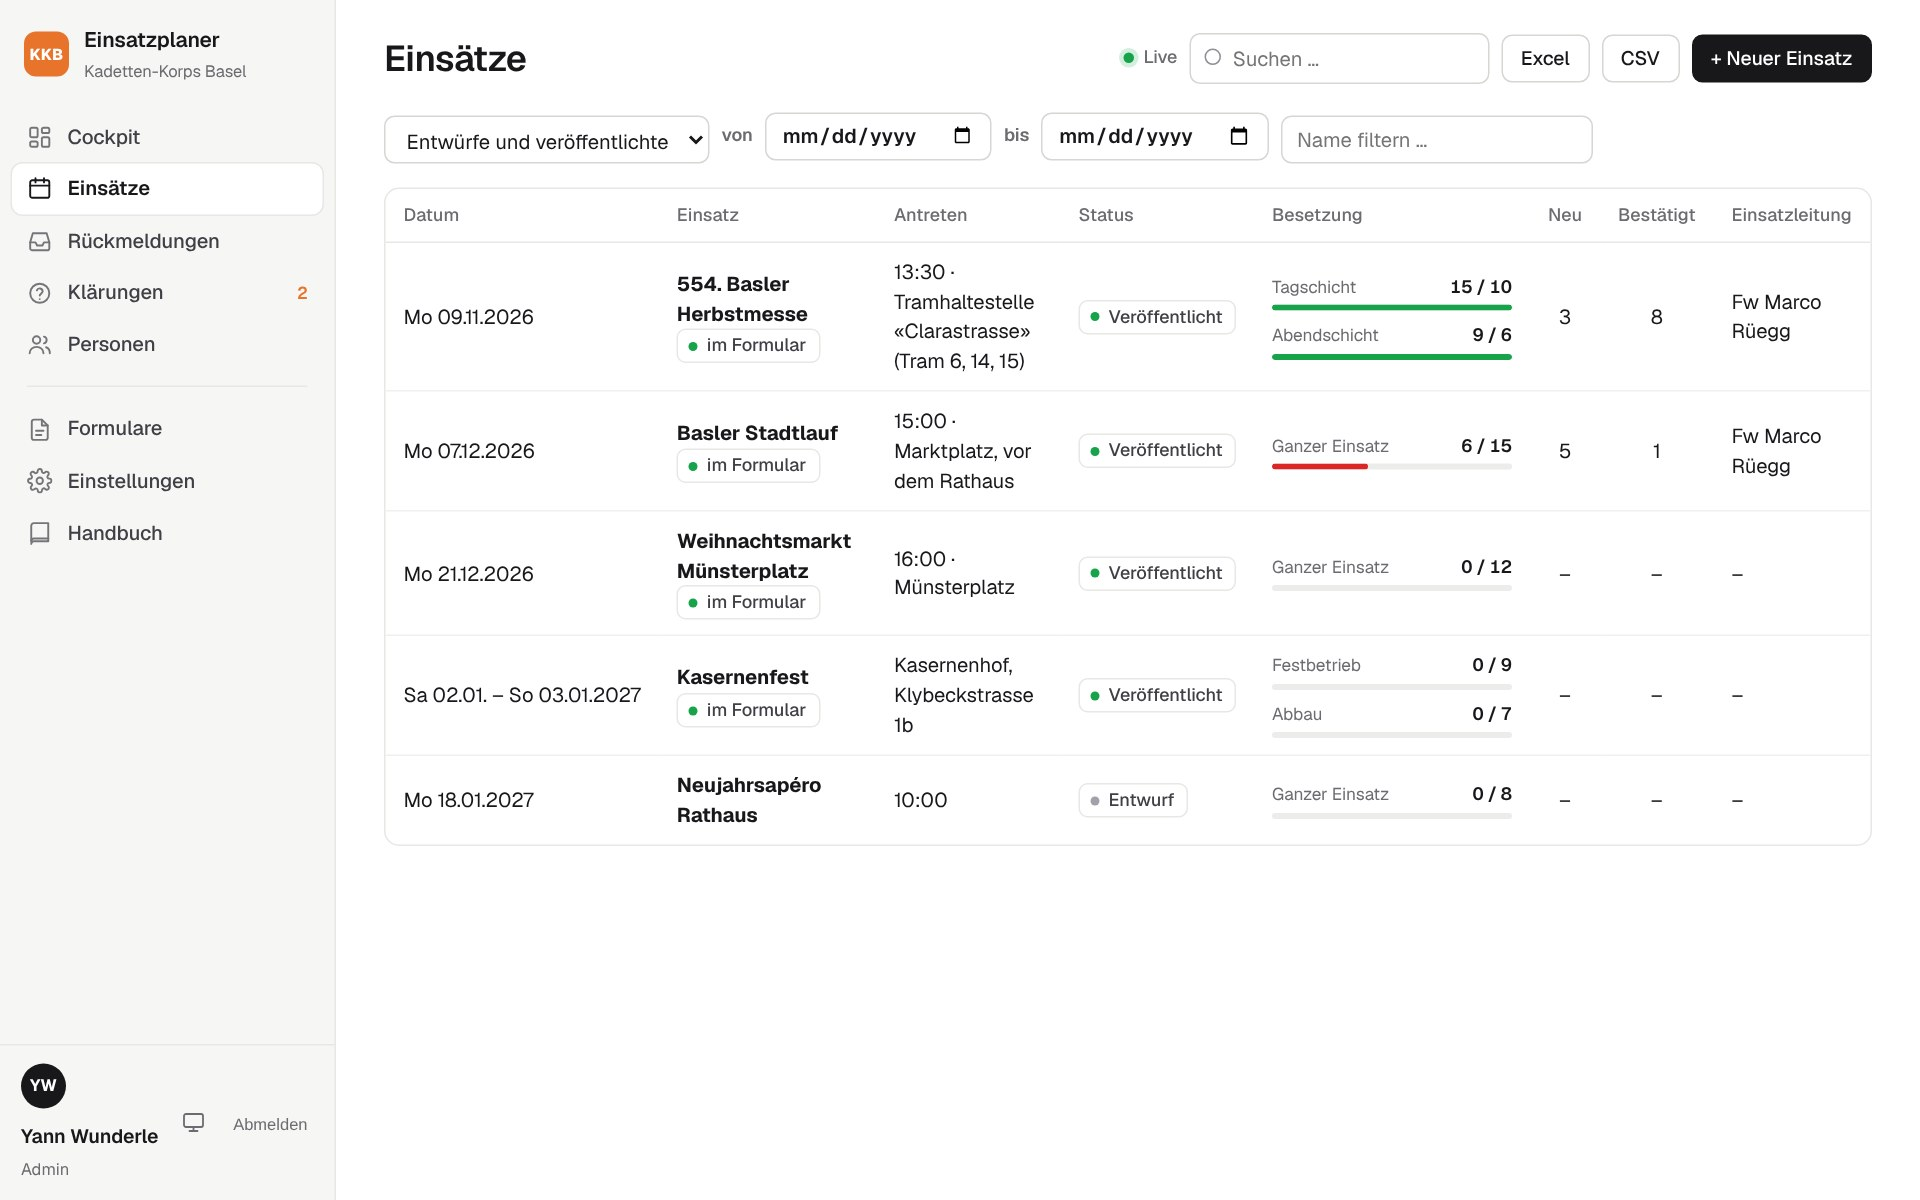
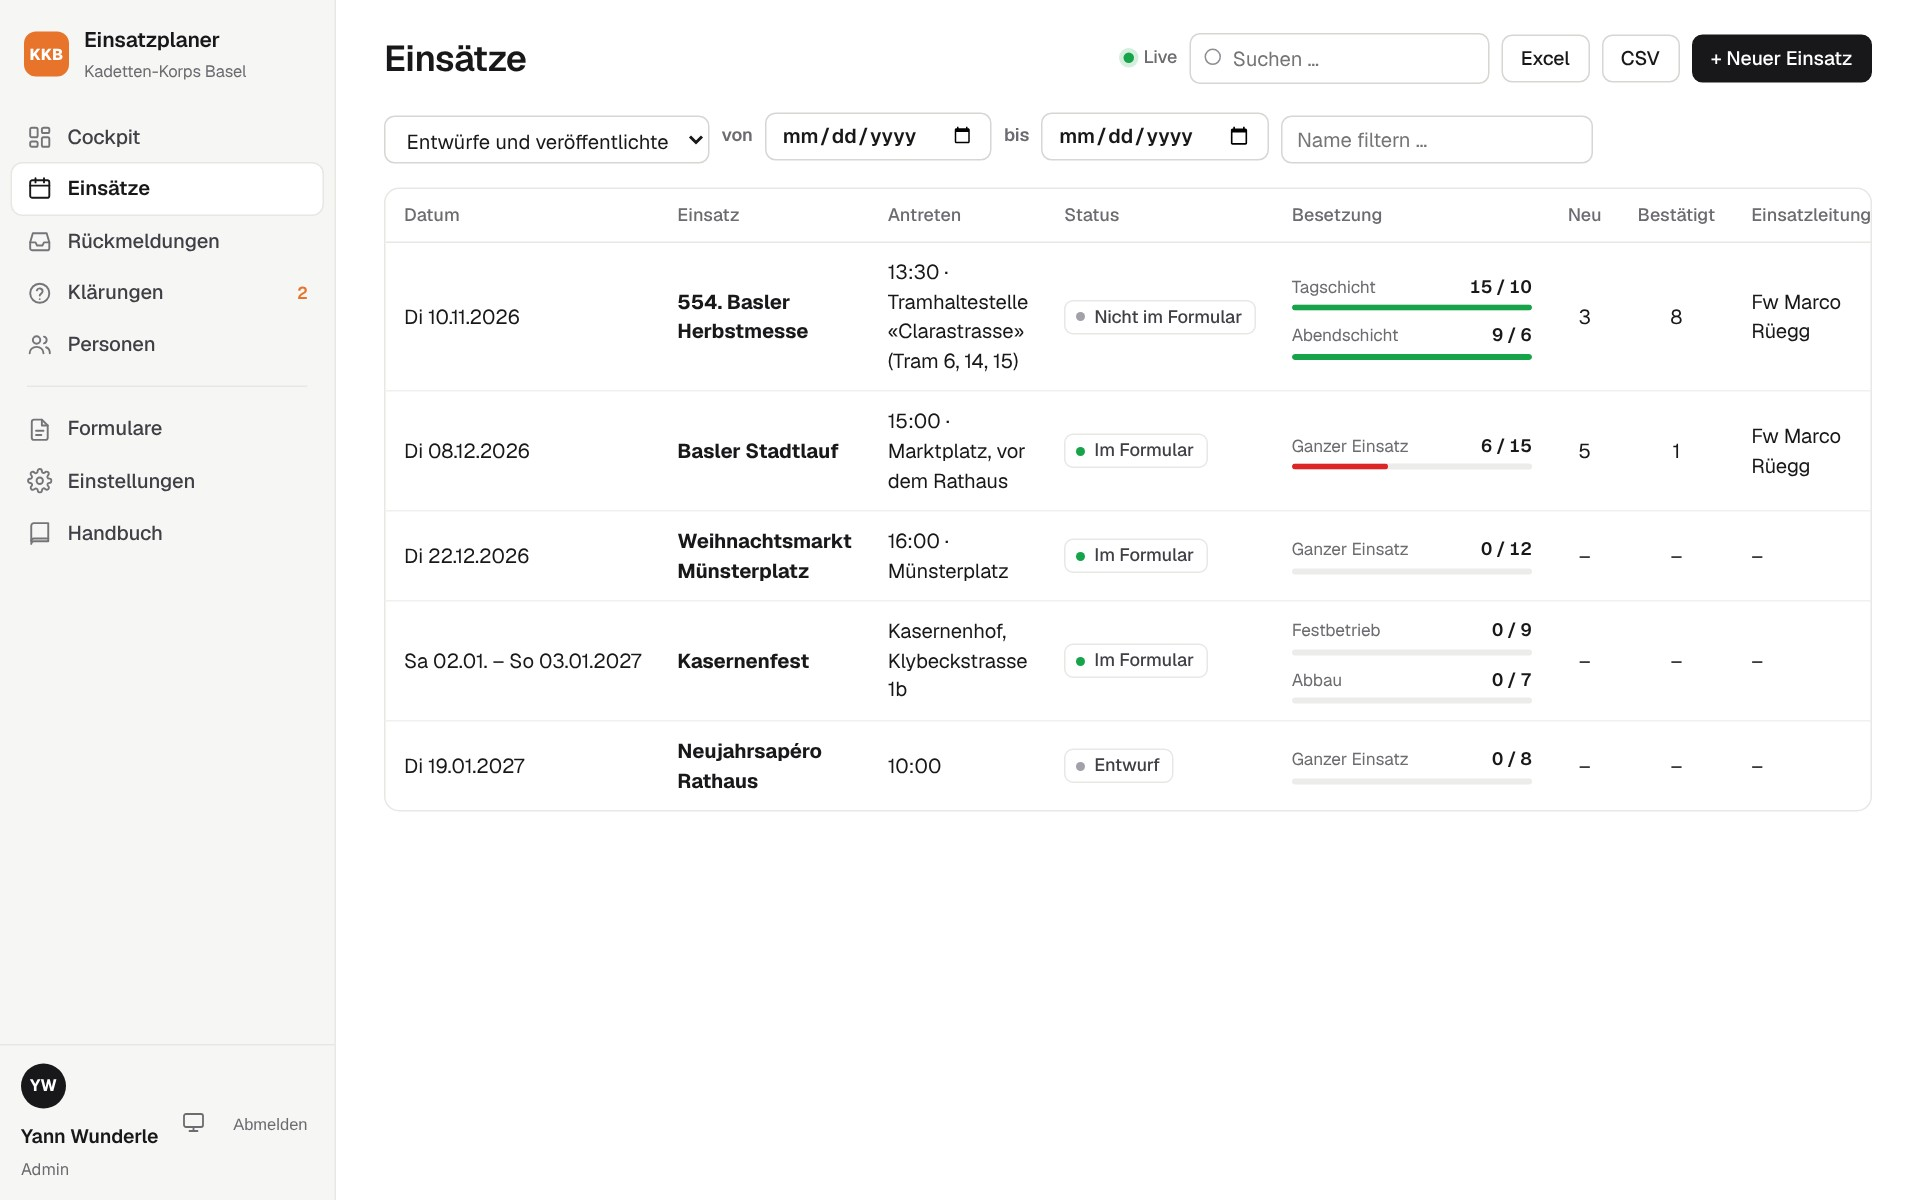
Status zeigt, ob ein veröffentlichter Einsatz im Formular steht
Bisher stand in der Einsatzliste immer «Veröffentlicht», auch wenn der
Einsatz aus dem Formular genommen war. Daneben gab es ein eigenes
Abzeichen «im Formular». Jetzt gibt es eine Anzeige: Entwurf, Im Formular,
Nicht im Formular, Abgeschlossen oder Abgesagt. Sie gilt in der Liste,
im Kopf des Einsatzes, in der Karte «Status und Formular» und im Cockpit.
Handbuch-Text und die Bilder 03 und 05 sind angepasst.

Claude-Session: https://claude.ai/code/session_01EBemczktYpLmCmGYyoutpk

diff --git a/src/lib/view-helpers.js b/src/lib/view-helpers.js
@@ -19,6 +19,17 @@ function eventBadge(status) {
   return badge(s.label, s.tone);
 }
 
+// Status für Listen und Kopfzeile: Ein veröffentlichter Einsatz zeigt, ob er im Formular steht.
+// So gibt es nur eine Anzeige statt «Veröffentlicht» und dazu ein eigenes Abzeichen «im Formular».
+function eventState(e) {
+  if (e.status !== 'veroeffentlicht') return eventBadge(e.status);
+  const inForm = typeof e.inForm === 'boolean' ? e.inForm : require('../services/events').isInForm(e);
+  const [text, tone, title] = inForm
+    ? ['Im Formular', 'green', 'Veröffentlicht und im Anmeldeformular']
+    : ['Nicht im Formular', 'gray', e.show_in_form ? 'Veröffentlicht, letzte Schicht ist vorbei' : 'Veröffentlicht, von Hand aus dem Formular genommen'];
+  return `<span class="badge badge-${tone}" title="${escapeHtml(title)}">${escapeHtml(text)}</span>`;
+}
+
 // Link für WhatsApp (wa.me) aus einer Schweizer Mobilnummer, z. B. 079 123 45 67 -> 41791234567
 function waLink(mobile) {
   let d = String(mobile || '').replace(/[^\d+]/g, '');
@@ -108,7 +119,7 @@ function navMiddleware(req, res, next) {
 }
 
 module.exports = {
-  ...dates, labels, escapeHtml, badge, regBadge, eventBadge, inquiryBadge, waLink, feedbackBadge, rank, initials, personName, withQuery, pct, nl2br,
+  ...dates, labels, escapeHtml, badge, regBadge, eventBadge, eventState, inquiryBadge, waLink, feedbackBadge, rank, initials, personName, withQuery, pct, nl2br,
   plural, flash, flashMiddleware, localsMiddleware, navMiddleware, icon: require('./icons').icon,
   // Vorlage für den Text-Editor: alte Klartext-Vorlagen in HTML umwandeln
   editorHtml: (template, format) => (format === 'html' ? String(template || '') : require('./html').textToHtml(template)),

diff --git a/test/flow.test.js b/test/flow.test.js
@@ -302,3 +302,15 @@ test('Kontakt mündlich: eigener Kanal, eigenes Icon, Zusage als Quelle «Mündl
   const r = inquiries.addAttempt(offen, anna, { channel: 'muendlich', result: 'zugesagt' }, system);
   assert.equal(registrations.get(r.registrationId).source, 'muendlich');
 });
+
+test('Status-Anzeige: aus dem Formular genommen heisst nicht mehr «Veröffentlicht»', () => {
+  const { offen, entwurf } = setup();
+  const h = require('../src/lib/view-helpers');
+  assert.match(h.eventState(events.get(offen)), />Im Formular</);
+  events.setShowInForm(offen, false, system);
+  const aus = h.eventState(events.get(offen));
+  assert.match(aus, />Nicht im Formular</);
+  assert.match(aus, /von Hand aus dem Formular genommen/);
+  assert.doesNotMatch(aus, />Veröffentlicht</);
+  assert.match(h.eventState(events.get(entwurf)), />Entwurf</);
+});

diff --git a/docs/handbuch/handbuch.md b/docs/handbuch/handbuch.md
@@ -118,6 +118,17 @@ Das Cockpit beantwortet jeden Tag die Frage: Was ist zu tun?
 
 Die Liste zeigt alle Einsätze mit Datum, Antreten, Status, Besetzung und Einsatzleitung. Oben lässt sich nach Status, Zeitraum und Name filtern. Ein Einsatz über mehrere Tage steht mit seinem Zeitraum in der Liste, z. B. «Sa 02.01. – So 03.01.2027», und wird bei jedem Zeitraum-Filter gefunden, der einen seiner Tage trifft.
 
+Die Spalte **Status** zeigt bei einem veröffentlichten Einsatz, ob er im Anmeldeformular steht:
+
+| Anzeige | Bedeutung |
+|---|---|
+| Entwurf | Noch nicht veröffentlicht. Der Einsatz steht nicht im Formular |
+| Im Formular | Veröffentlicht. Die Mitglieder können sich anmelden |
+| Nicht im Formular | Veröffentlicht, aber nicht im Formular: von Hand herausgenommen oder die letzte Schicht ist vorbei. Mit der Maus über die Anzeige fahren zeigt den Grund |
+| Abgeschlossen, Abgesagt | Der Einsatz ist erledigt |
+
+Dieselbe Anzeige steht im Kopf des Einsatzes und im Cockpit. Der Filter «Veröffentlicht» zeigt beide Fälle, im Formular und nicht im Formular.
+
 ### Neuer Einsatz
 
 Über **+ Neuer Einsatz** öffnet sich das Formular. Nur der Name ist Pflicht – alles andere darf später ergänzt werden.
@@ -159,7 +170,7 @@ Die Übersicht passt meist auf einen Bildschirm. Links steht, wie es um den Eins
 - **Angaben** des Einsatzes und wann das Aufgebot zuletzt exportiert wurde.
 - **Externe Abteilungen:** andere Abteilungen oder Vereine, die mit einer Anzahl Personen mithelfen (Kapitel 7). Gibt es keine, steht nur der Knopf **+ Externe Abteilung hinzufügen**.
 - **Status und Formular** (rechts): Entwurf → Veröffentlicht → Abgeschlossen, oder jederzeit Abgesagt. Nach dem Abschluss sind die Daten schreibgeschützt; Änderungen sind dann nur noch durch einen Admin mit Begründung möglich. Bei einer Absage bleiben alle Daten erhalten.
-- **Im Formular anzeigen** (in derselben Karte): schaltet den Einsatz im Anmeldeformular ein oder aus, z. B. wenn er voll ist. Darunter führt **So sieht der Einsatz im Formular aus →** zum Reiter «Formular».
+- **Im Formular anzeigen** (in derselben Karte): schaltet den Einsatz im Anmeldeformular ein oder aus, z. B. wenn er voll ist. Der Status bleibt dabei «Veröffentlicht». Die Anzeige wechselt aber auf «Nicht im Formular»: in der Karte, im Kopf des Einsatzes und in der Liste. Darunter führt **So sieht der Einsatz im Formular aus →** zum Reiter «Formular».
 - **Einsatzleiter-Zugriff:** gibt den Einsatz für einen Einsatzleiter frei (Kapitel 15).
 - Oben rechts stehen drei Knöpfe: **Teilnehmerliste** (dunkel, Kapitel 14), **Bearbeiten** und **Mehr ▾**. Im Menü **Mehr** liegen der **Kalendertermin** (Kapitel 16), der Export der aktuellen Liste als Excel oder CSV, die **Teilnehmerliste** (pro Schicht als PDF, als Excel oder CSV, **Auswahl anpassen …**), die **Verpflegungsliste** (ganzer Einsatz oder pro Schicht als PDF, **Ansehen und auswählen …**) und **Drucken**.
 - Was sonst geändert wurde, steht im Reiter **Verlauf**.
